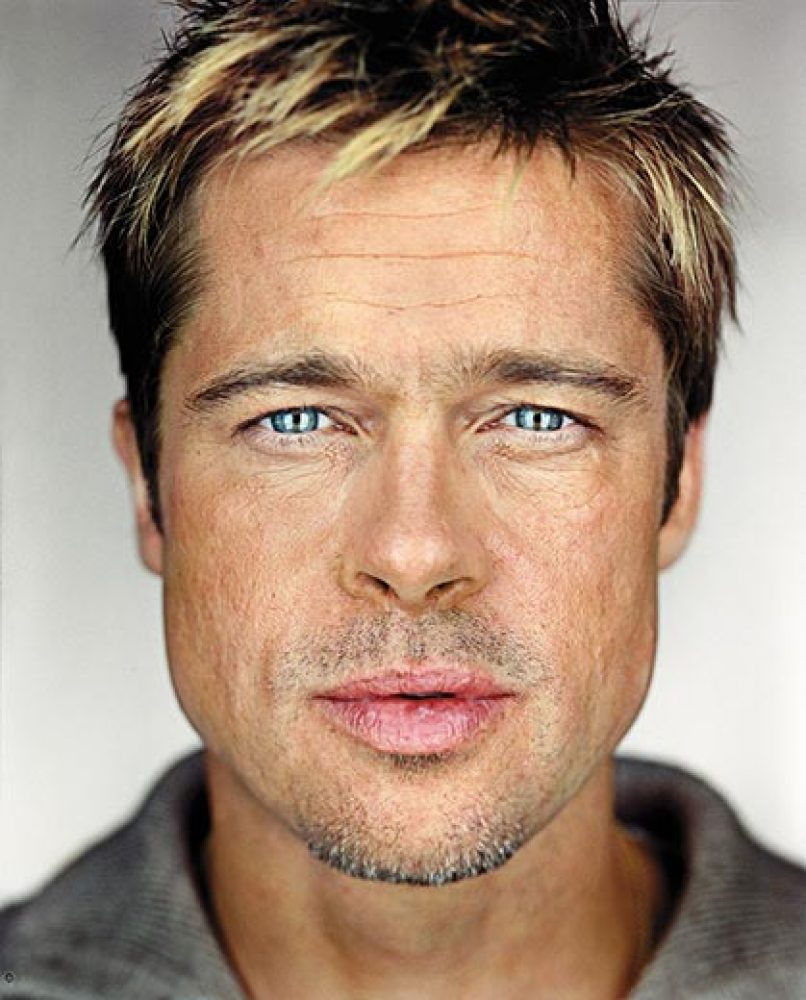
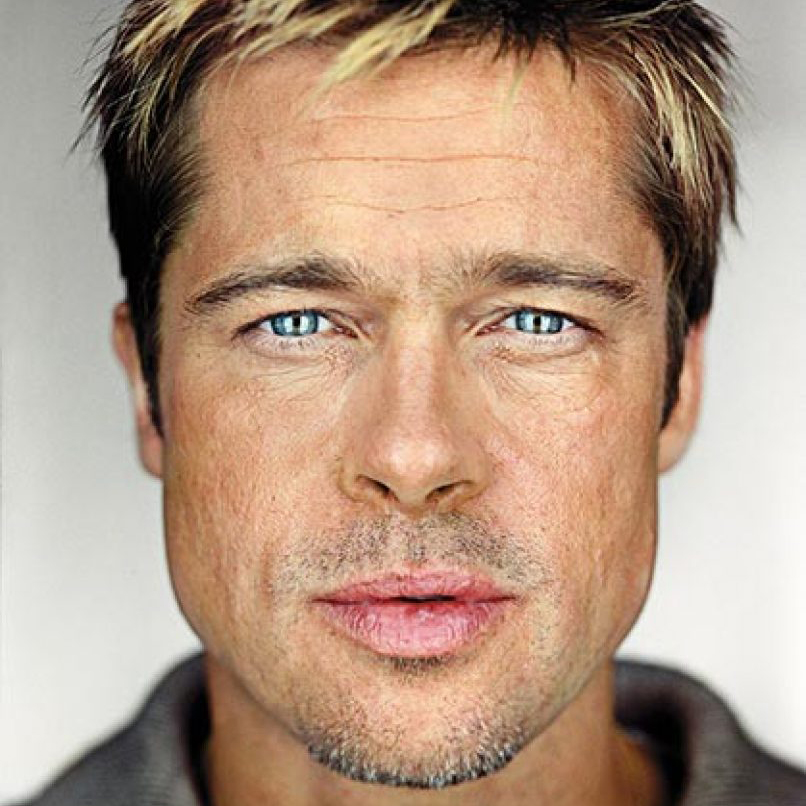
update

diff --git a/website/settings.html b/website/settings.html
@@ -84,7 +84,7 @@
                     </li>
 
                     <li class="edit">
-                        <div>
+                        <div class="edit">
                         <p class="title password">Update your password</p>
                         <span class="edit"></span>
                         </div>
@@ -112,9 +112,22 @@
                     </li>
 
                     <li class="edit">
-                        <div>
+                        <div class="edit">
                         <p class="title camera">Upload a new profile picture</p>
                         <span class="edit"></span>
+                        </div>
+
+                        <div class="content">
+                                <img src="images/profile-pictures/main.jpg" class="profile" alt="Waauuww such a beautiful picture of you" class="show">
+                            <form>
+                                <p>I think its time to change that picture it's so 2014</p>
+                                <input type="file" name="fileToUpload" id="fileToUpload">
+
+                                 <p>We will send a mail to <span>brad@pitt.com</span> to confim your password update.</p>
+
+                                <input type="button" id="cancel" name="cancel" value="Cancel" tabindex="5">
+                                <input type="button" id="save" name="save" value="Save" tabindex="4" class="green">
+                            </form>
                         </div>
                         
                     </li>

diff --git a/website/css/style.css b/website/css/style.css
@@ -652,6 +652,8 @@ header nav ul li a.profile p.rank{
     -o-transition: all .2s ease-in;
     transition: all .2s ease-in;
 
+    text-align: center;
+
 }
 #content section.settings ul li.open{
 	height: auto;
@@ -667,6 +669,16 @@ header nav ul li a.profile p.rank{
 	float: left;
 	height: 50px;
 
+}
+#content section.settings ul li div.content{
+
+	margin-top: 20px;
+	height: auto;
+}
+#content section.settings ul li div img.profile{
+	width: 200px;
+	height: 200px;
+	border-radius: 50%;
 }
 #content section.settings ul li form{
 	

diff --git a/website/js/app.js b/website/js/app.js
@@ -28,7 +28,7 @@ $(function(){
 
 		});
 
-		$(".settings ul li.edit div").on("click",function (e) {
+		$(".settings ul li.edit div.edit").on("click",function (e) {
 
 			if($(this).parent().attr("class") == "edit open"){
 				$(this).parent().removeClass("open");
